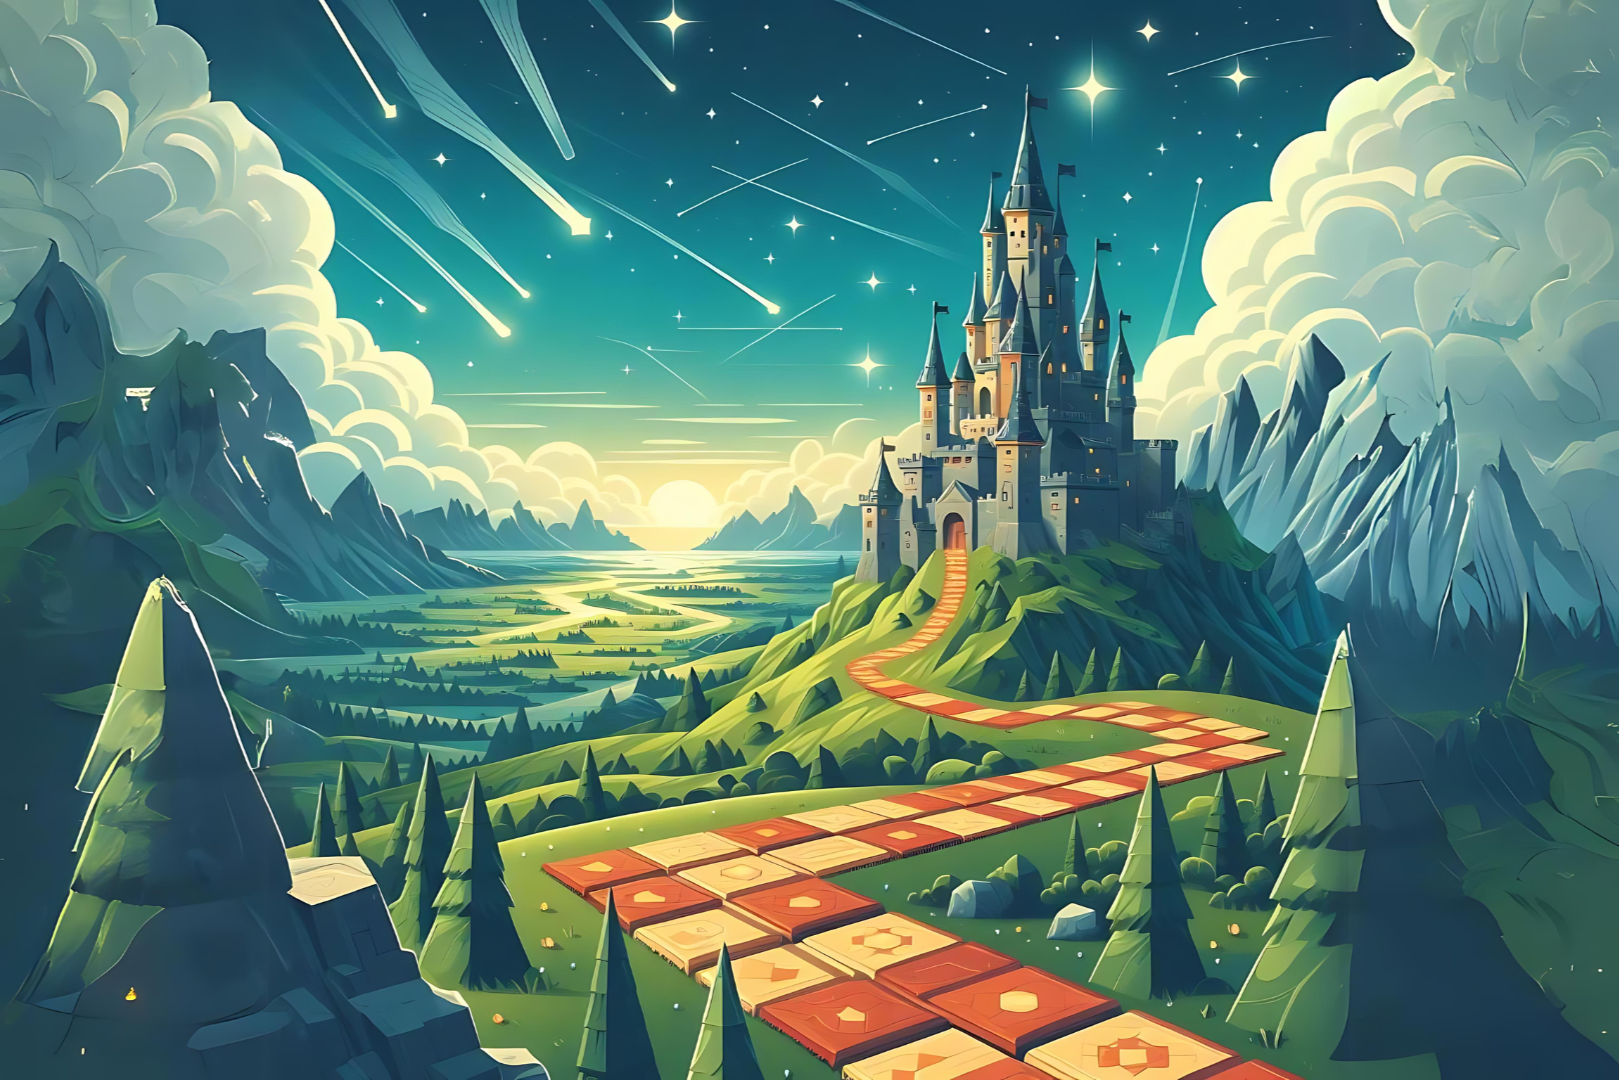
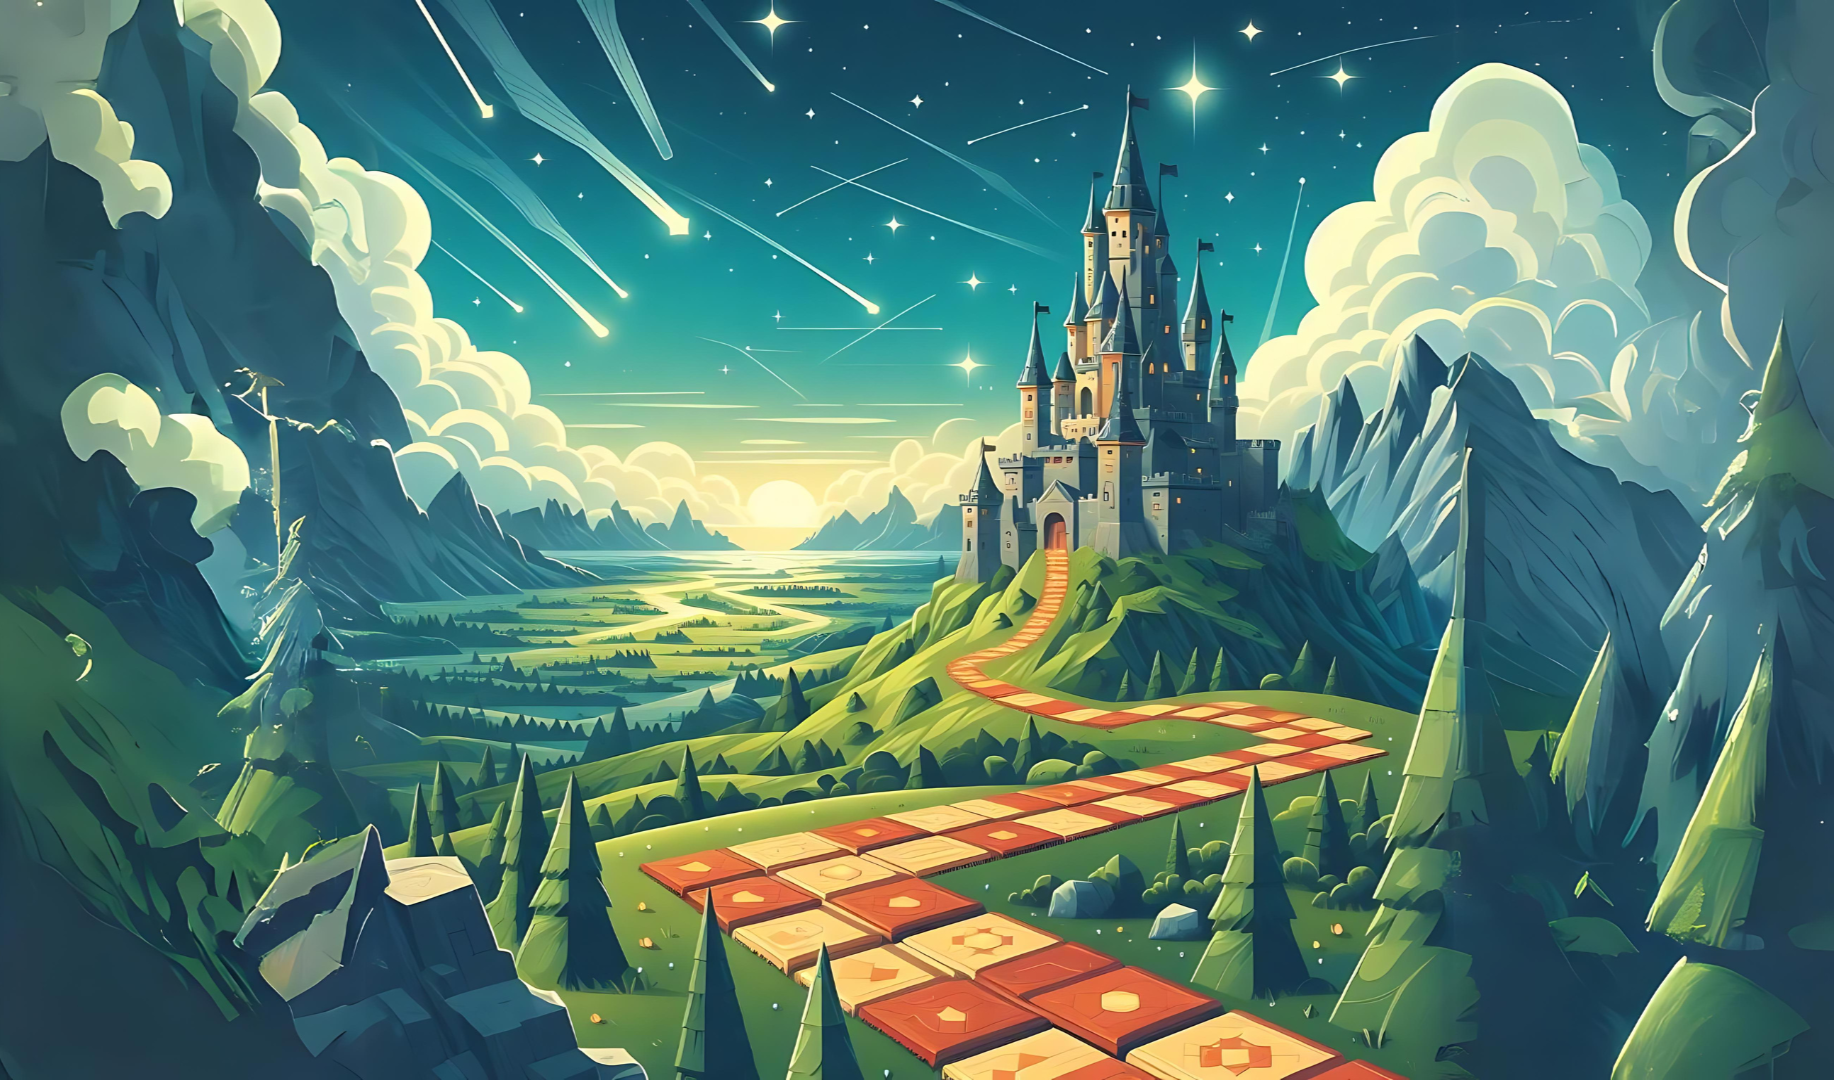
Change wallpaper

diff --git a/client/styles/index.css b/client/styles/index.css
@@ -17,7 +17,7 @@ body {
   background-image: url("../images/wallpaper.png");
   background-position: center;
   background-repeat: no-repeat;
-  background-size: contain;
+  background-size: cover;
   min-height: 50dvh; 
 }
 
@@ -25,6 +25,7 @@ body {
   display: flex;
   flex-direction: column;
   height: 125vh;
+  gap: 30px;
 }
 
 .header { flex: 1; }
@@ -38,12 +39,13 @@ body {
 #logo {
   display: block;
   height: auto;
-  max-width: calc(20vw + 15vh);
+  max-width: calc(20vw + 18vh);
   margin: 0 auto;
   margin-top: 10px;
 }
 
 .body {
+  margin-top: 10px;
   flex: 6;
   display: flex;
   align-items: center;
@@ -61,7 +63,7 @@ body {
   gap: 10px;
 
   opacity: 1;
-  background-color: rgba(166, 122, 83, 0.8);
+  background-color: rgba(242, 239, 233, 0.6);
   border-radius: 20px;
 }
 
@@ -115,7 +117,7 @@ body {
   color: white;
   text-overflow: ellipsis;
   word-wrap: break-word;
-
+  
   border: 0;
   cursor: pointer;
   border-radius: 20px;
@@ -126,12 +128,6 @@ body {
 .my-btn:hover {
   transform: translateY(-3px);
   box-shadow: 3px 4px 3px rgba(0, 0, 0, 0.3);
-}
-
-.header > .small {
-  margin: 15px 0;
-  font-size: 180%;
-  font-weight: 900;
 }
 
 .loader {

diff --git a/client/pages/index.html b/client/pages/index.html
@@ -15,10 +15,8 @@
 <body>
   <div class="flex-container">
     <div class="header">
-      <img src="../images/cropped-logo.png" id="logo" alt="Titolo del gioco">
-      <p class="small text">Riuscirai a laurearti?</p>
+      <img src="../images/logohome.png" id="logo" alt="Titolo del gioco">
     </div>
-
     <div class="body">
       <div class="rect">
         <form class="username text" id="usernameForm">
